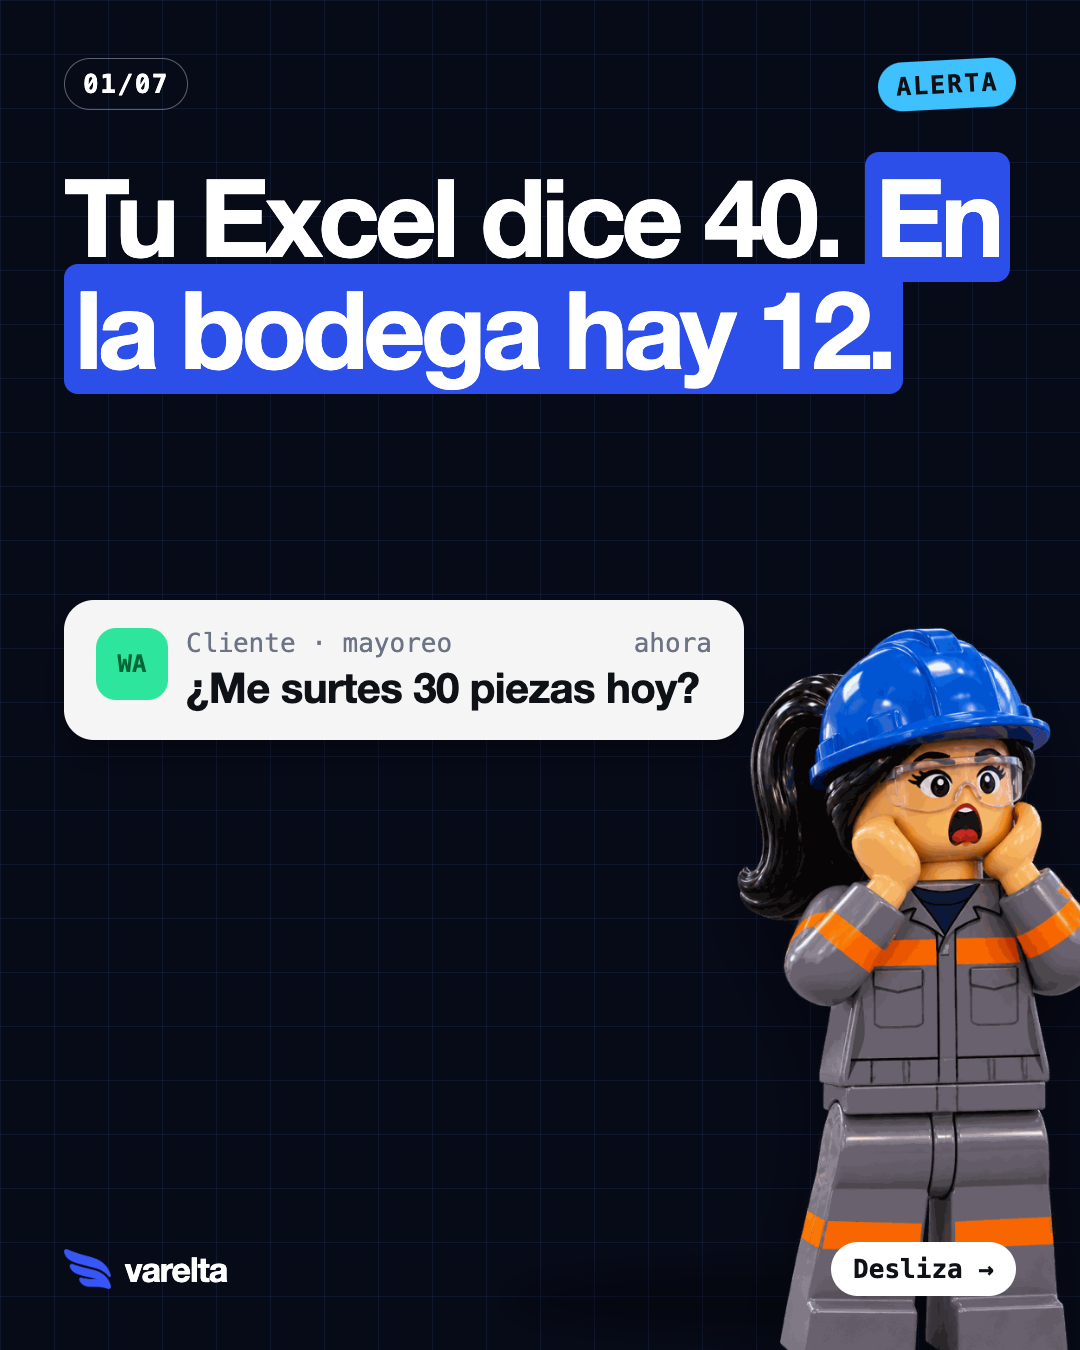
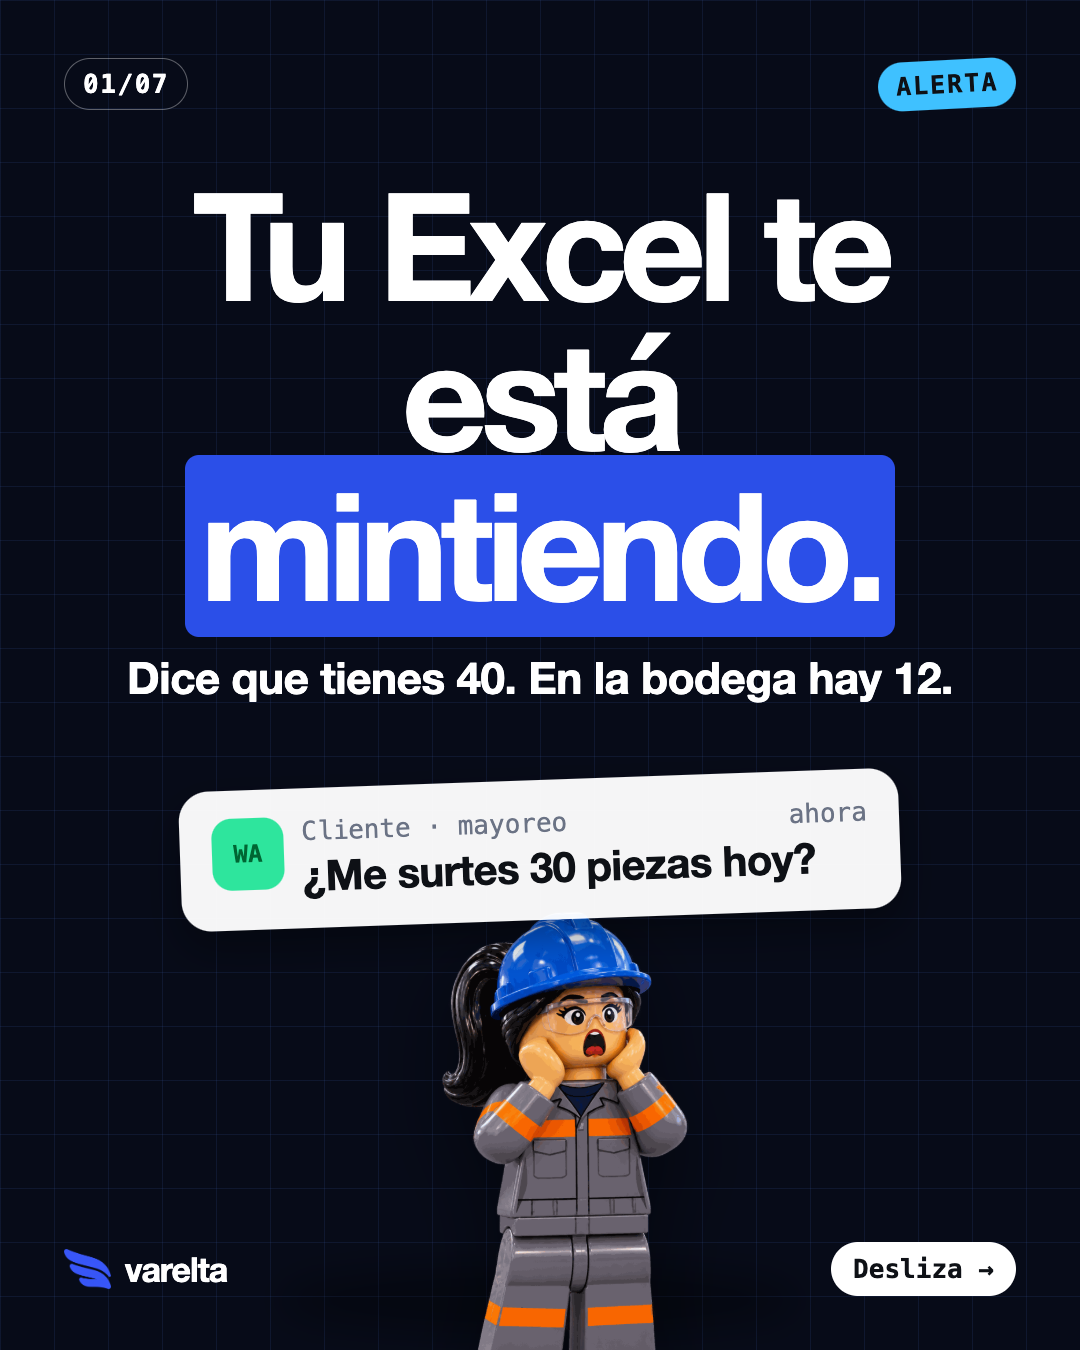
Gancho centrado y más clickbait en el estilo sistema
Claude-Session: https://claude.ai/code/session_015eUJXirdz8qSJvUiN5cmp2

diff --git a/marca/plantilla-sistema.html b/marca/plantilla-sistema.html
@@ -37,6 +37,13 @@ p b{font-weight:800;color:#fff}.claro p b{color:var(--tinta)}
 .azul .marca img{filter:brightness(0) invert(1)}
 .desliza{font-family:var(--mono);font-size:26px;font-weight:700;padding:12px 22px;border-radius:99px;background:#fff;color:var(--tinta)}
 .claro .desliza{background:var(--tinta);color:#fff}
+/* gancho centrado */
+.s.gancho .txt{text-align:center;top:170px;left:56px;right:56px}
+.s.gancho h1{font-size:150px;line-height:1;letter-spacing:-.05em}
+.s.gancho p{margin:30px auto 0;font-size:44px;font-weight:600;color:#fff;max-width:860px}
+.s.gancho .pila{left:50%;top:auto;bottom:430px;width:720px;margin-left:-360px;transform:rotate(-2deg)}
+.s.gancho .pj{left:50%;right:auto;bottom:-70px;height:520px;transform:translateX(-50%)}
+.s.gancho .sombra{left:50%!important;right:auto!important;margin-left:-260px}
 /* minifigura */
 .pj{position:absolute;z-index:3;filter:drop-shadow(0 30px 40px rgba(0,0,0,.45))}
 .pj.der{right:-30px;bottom:-40px;height:780px}

diff --git a/marca/CARRUSEL.md b/marca/CARRUSEL.md
@@ -10,7 +10,8 @@ beto, elena, andres, sofi, memo, tere, paty, rafa, karla, ana, lalo, tono, lupit
 Usa UN personaje por carrusel, el que mejor encaje con el giro, y no repitas el del día anterior.
 
 Tipos de lámina (`tipo`):
-- `gancho`: `titulo` (máx. 9 palabras, `<mark>` bloque azul, `<em>` azul eléctrico), `burbujas` opcional (1 notificación), `personaje` sorprendida/preocupada.
+- `gancho` (lámina 1, CENTRADA y gigante): `titulo` de 3–6 palabras tipo clickbait honesto, con la palabra que más duele en `<mark>`; `texto` = 1 frase que aterriza el gancho con un dato concreto; `burbujas` = 1 notificación que lo hace real; `personaje` sorprendida/preocupada.
+  Fórmulas que funcionan: «Tu Excel te está <mark>mintiendo.</mark>» · «Estás perdiendo ventas <mark>mientras duermes.</mark>» · «Tu WhatsApp <mark>no es un sistema.</mark>» · «Ese cliente <mark>no va a regresar.</mark>» · «Le estás pagando a alguien <mark>por copiar y pegar.</mark>» · «Nadie te dijo esto <mark>de tu inventario.</mark>». Acusa al enemigo (el Excel, el WhatsApp, el papel), nunca al dueño.
 - `caos`: `titulo` + `burbujas` (3 notificaciones: `de`, `m`, `i` = 2 letras del ícono, `c` = r|a|b color, `h` hora) + `personaje`.
 - `numero`: `numero` (ej. `"28 <small>piezas</small>"`), `vs` opcional (2 etiquetas), `etiqueta`, `nota` («* Ejemplo ilustrativo» si es ejemplo), `personaje`. Con `"fondo":"azul"` sirve para el resultado.
 - `pasos`: lámina clara con `titulo`, `lista` (3 puntos, cortos) y `tip`. Sin personaje.
